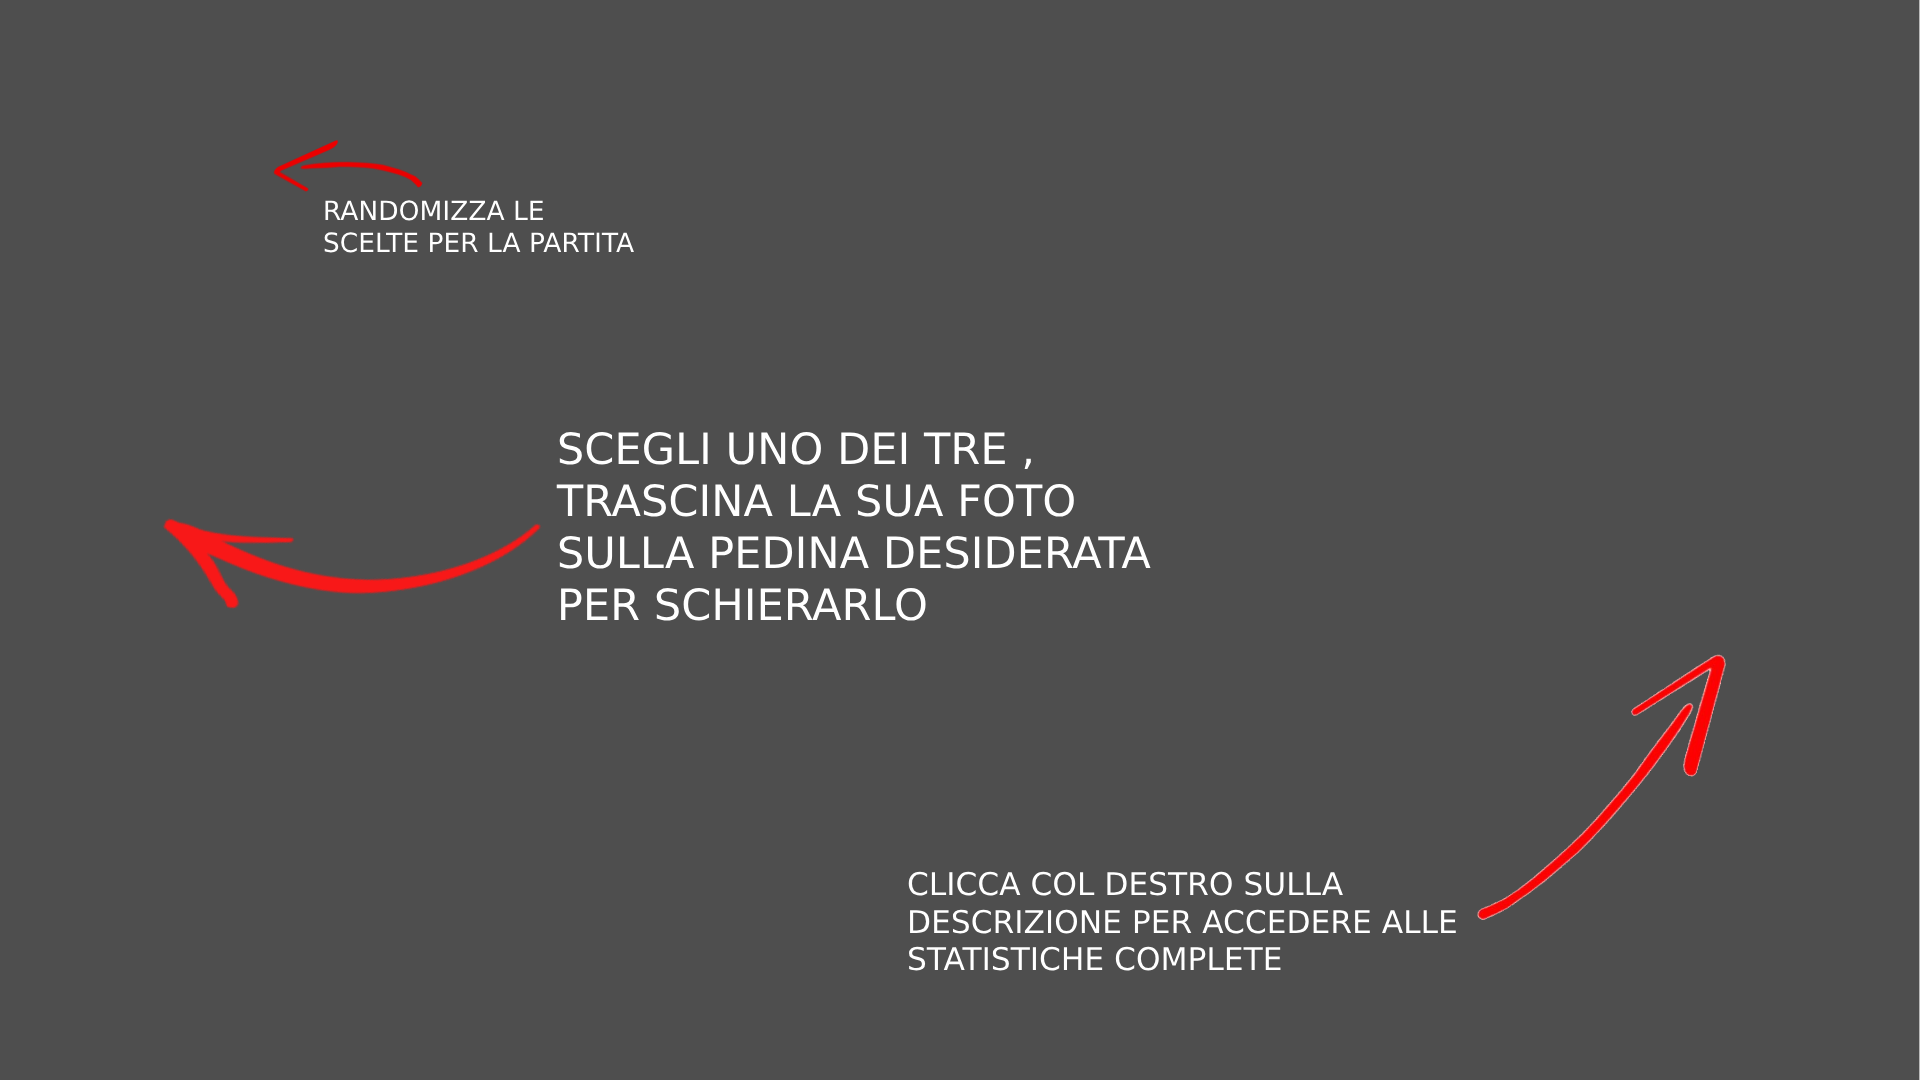
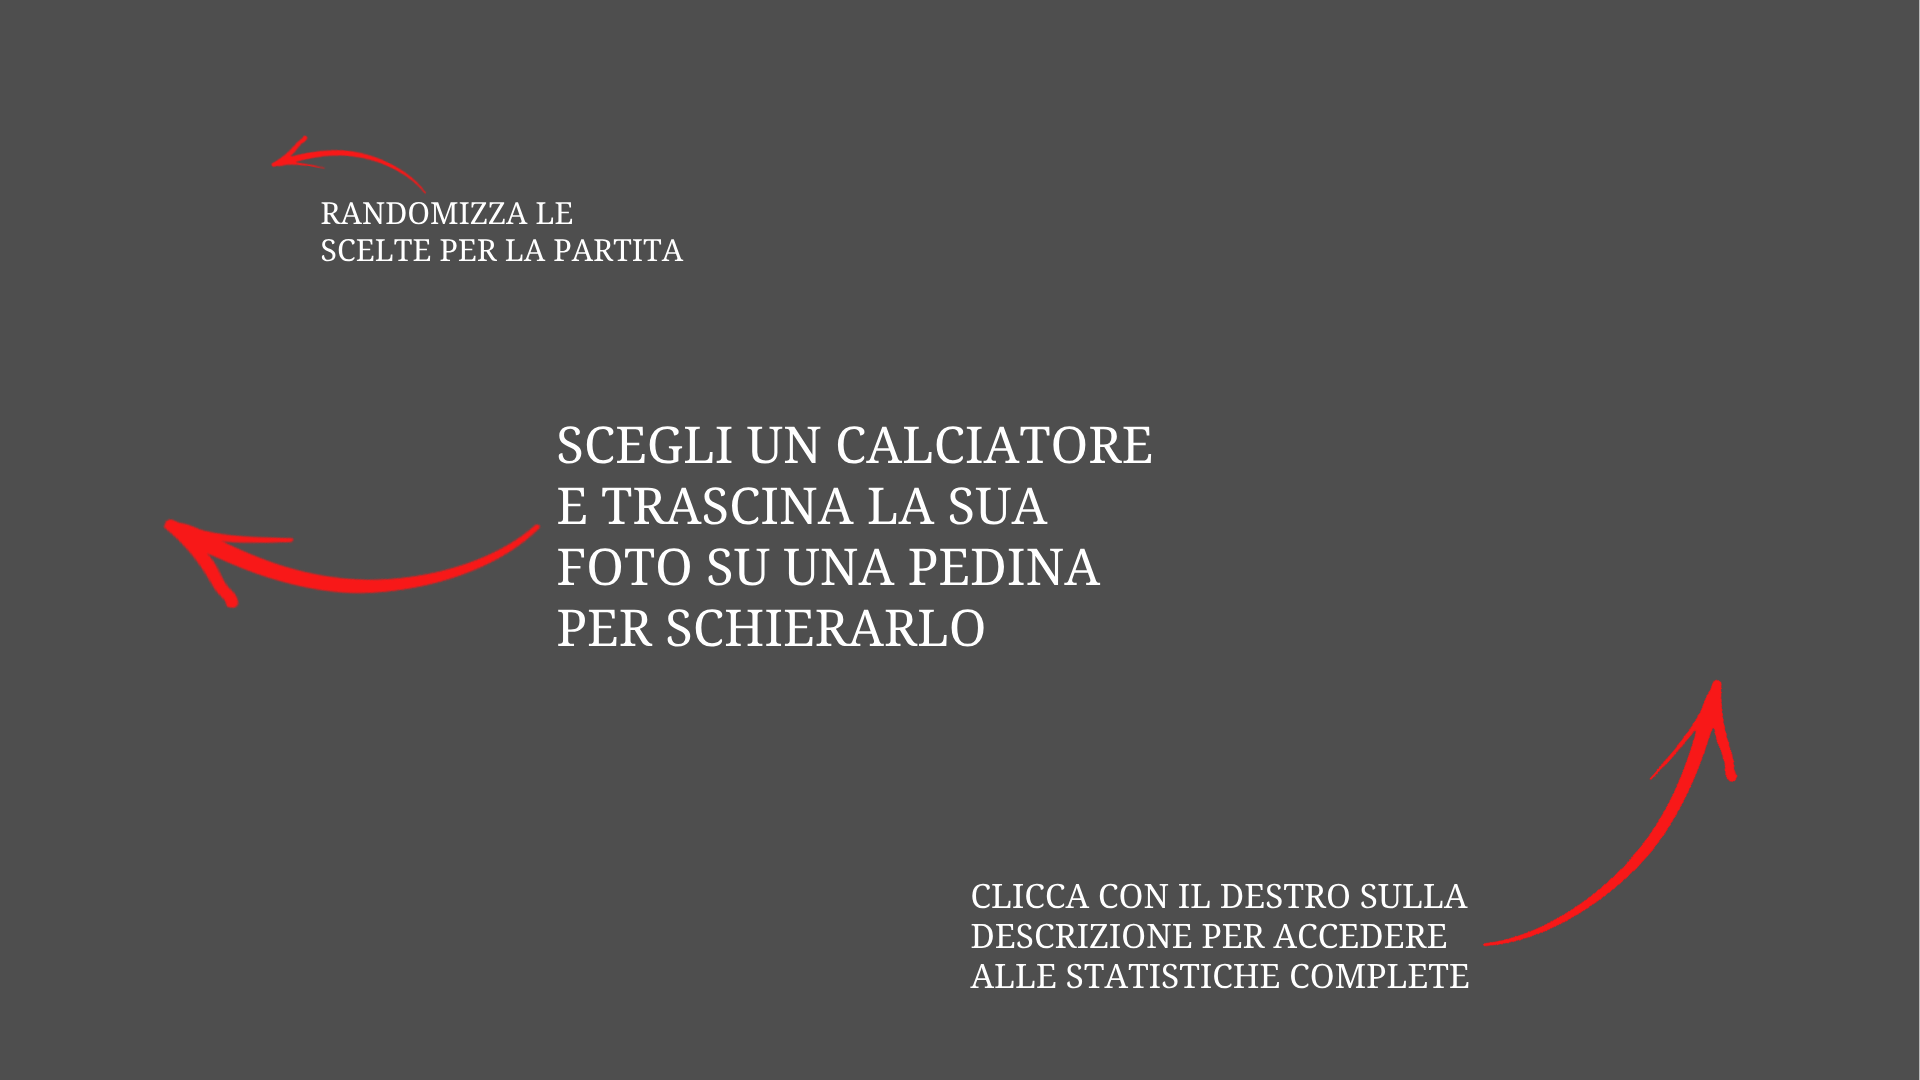
correzione font tutorial + aggiustamenti

Changed region(s): [[0.2812, 0.3972, 0.5938, 0.6111], [0.4688, 0.6111, 0.9062, 0.9167], [0.125, 0.1222, 0.3438, 0.2444]]

diff --git a/publicHTML/script_gamepage/Re.js b/publicHTML/script_gamepage/Re.js
@@ -1,7 +1,3 @@
-/*
-*  INIZIO LOGICA DEL RE IN SCACCO
-*/
-
 
 window.idCellReBianco = "53"; //id della cella su cui c'è il re bianco
 window.idCellReNero = "03"; //id della cella su cui c'è il re nero
@@ -10,8 +6,7 @@ window.cellaReBianco = document.getElementById(window.idCellReBianco);
 window.cellaReNero = document.getElementById(window.idCellReNero);
 
 
-//Funzione update variabili window posizione re (ovvero id cella dove è posiz)
-// + pulisce la vecchia cella del re se sottoscacco
+// Funzione che aggiorna le variabili di finestra del re e pulisce la cella del re precedente
 function update_re_position(img_pezzo, new_cell_re){
     //prima di cambiare posizione salvo la vecchia posiz del re
     let old_king_cell = (window.turno_bianco)? document.getElementById(window.idCellReBianco) : document.getElementById(window.idCellReNero);
@@ -32,12 +27,12 @@ function update_re_position(img_pezzo, new_cell_re){
     }  
 }
 
-//Funzione che resetta la cella del re passata come parametro
+// Funzione che resetta la cella del re passata come parametro
 function resetSottoscacco_cella(cella_re){
     cella_re.classList.remove('sottoscacco');
 }
 
-//Funzione che resetta la cella del re quando non è sottoscacco
+// Funzione che resetta la cella del re quando non è sottoscacco
 function resetSottoscacco (){
     //se il mio re non è sottoscacco decoloro la cella
     if (window.turno_bianco){
@@ -47,6 +42,7 @@ function resetSottoscacco (){
     }
 }
 
+// Funzione che resetta la cella del re avversario quando non è sottoscacco
 function resetSottoscaccoAvversaro (){
     //se il re avv non è sottoscacco decoloro la cella
     if (!window.turno_bianco){
@@ -56,7 +52,7 @@ function resetSottoscaccoAvversaro (){
     }
 }
 
-//Funzione che evidenzia il re se è sottoscacco
+// Funzione che evidenzia il re se è sottoscacco
 function highlight_re_if_sottoscacco(){ 
     //chech se metto re avversario sottoscacco quando muovo
     if(check_reAvversario_sottoscacco()){
@@ -88,7 +84,7 @@ function highlight_re_if_sottoscacco(){
     // NOTA:  PULIZIA DELLA CELLA SOTTOSCACCO IN UPDATE_RE_POSITION
 }
 
-//Funzione per controllare se l'ultima mossa fatta dall'avversario mette sotto scacco il proprio re
+// Funzione per controllare se l'ultima mossa fatta dall'avversario mette sotto scacco il proprio re
 function check_reAvversario_sottoscacco(){
     //ho la cella del re AVVERSARIO
     //controllo su tutti i MIEI pezzi 
@@ -125,7 +121,7 @@ function check_reAvversario_sottoscacco(){
     return sottoscacco;
 }
 
-//Funzione per controllare se il mio re è in scacco
+// Funzione per controllare se il mio re è in scacco
 function check_mio_re_sottoscacco(){
     //ho la cella del MIO re
     //controllo su tutti i MIEI pezzi 
@@ -159,7 +155,7 @@ function check_mio_re_sottoscacco(){
     return sottscacco;
 }
 
-//Funzione termina la partita se magio il re
+// Funzione che termina la partita se magio il re
 function isReMangiato(pedina_mangiata){
     // Verifica se la pedina mangiata esiste ed è un re
     if (pedina_mangiata && (pedina_mangiata.id === 'r' || pedina_mangiata.id === 'R')){
@@ -172,13 +168,12 @@ function isReMangiato(pedina_mangiata){
 function resetNumCelleRe(){
     window.idCellReBianco = "53"; //id della cella su cui c'è il re bianco
     window.idCellReNero = "03"; //id della cella su cui c'è il re nero
+    window.cellaReBianco = document.getElementById(window.idCellReBianco);
+    window.cellaReNero = document.getElementById(window.idCellReNero);
 }
 
 //Funzione per resettare il colore della cella del re a prescindere dal turno
-function resetColoreSottoscacco(){
+function resetAllSottoscacco(){
     window.cellaReBianco.classList.remove("sottoscacco");
     window.cellaReNero.classList.remove("sottoscacco");
 }
-/*
-*  FINE LOGICA DEL RE IN SCACCO
-*/

diff --git a/publicHTML/script_gamepage/Punteggio&Partite.js b/publicHTML/script_gamepage/Punteggio&Partite.js
@@ -1,3 +1,4 @@
+// Funzione per aggiornare i punti di un giocatore
 async function aggiornaPunti(userid, new_punti) {
   try {
     const response = await fetch('/update_punti', {
@@ -13,6 +14,7 @@ async function aggiornaPunti(userid, new_punti) {
   }
 }
 
+// Funzione per aggiornare le partite di un giocatore
 async function aggiornaPartite(userid) {
     try {
         const response = await fetch('/update_partite', {
@@ -35,7 +37,7 @@ async function aggiornaPartite(userid) {
     }
 }
 
-
+// Funzione per aggiornare le vittorie di un giocatore
 async function aggiornaVittorie(userid) {
     try {
         const response = await fetch('/update_vittorie', {
@@ -56,8 +58,11 @@ async function aggiornaVittorie(userid) {
     }
 }
 
+
+
 //------ FUNZIONE DA CHIAMARE A FINE PARTITA PER GESTIRE GLI AGGIORNAMENTI ------//
 
+// Funzione per aggiornare i dati dei player a fine partita
 function aggiornaStatistiche(){
     let numero_vincitore = window.turno_bianco ? 1 : 2;
     let vincitore = window.turno_bianco ? localStorage.getItem('game_username1') : localStorage.getItem('game_username2');

diff --git a/publicHTML/script_gamepage/Suoni.js b/publicHTML/script_gamepage/Suoni.js
@@ -3,7 +3,7 @@ window.audioCtx = new (window.AudioContext || window.webkitAudioContext)();
 window.soundBuffers = {}; // Oggetti audio pre-caricati
 window.soundsInitialized = false;
 
-// Precarica i suoni e decodifica i buffer
+// Funzione che precarica i suoni e decodifica i buffer
 function preloadSounds() {
     const soundsToLoad = {
         mossa: 'sounds/Move_on_Alabaster.wav',
@@ -26,7 +26,7 @@ function preloadSounds() {
     }
 }
 
-// Sblocca l’audio context dopo la prima interazione
+// Funzione che sblocca l’audio context dopo la prima interazione
 function preparaSounds() {
     if (window.soundsInitialized) return;
     if (window.audioCtx.state === 'suspended') {
@@ -56,6 +56,7 @@ function playSound(tipo, volume = 1.0) {
     source.start(0);
 }
 
+// Funzione per riprodurre un suono vuoto per aggiornare il browser
 function forzaAudio() {
     const buf = window.audioCtx.createBuffer(1, 1, 22050); // buffer silenzioso
     const src = window.audioCtx.createBufferSource();

diff --git a/publicHTML/script_gamepage/UtilityGrafica.js b/publicHTML/script_gamepage/UtilityGrafica.js
@@ -58,7 +58,7 @@ function resetSelezione(){
     window.selected_image = null;
 }
 
-//abilita movimento e hover pedine
+// Funzione che abilita movimento e hover pedine
 function abilitaPedine(){
     document.querySelectorAll('.pedina').forEach(pedina => {
         pedina.classList.remove('no-hover');
@@ -66,7 +66,7 @@ function abilitaPedine(){
     });
 }
 
-//disabilita movimento e hover pedine
+// Funzione che disabilita movimento e hover pedine
 function disabilitaPedine(){
     document.querySelectorAll('.pedina').forEach(pedina => {
         pedina.classList.add('no-hover');  // Aggiungo la classe no-hover per disabilitare l'hover
@@ -194,5 +194,3 @@ function handleTutorial() {
         makeHidden(tutorial);
     }
 }
-
-

diff --git a/publicHTML/script_gamepage/UtilityPartita.js b/publicHTML/script_gamepage/UtilityPartita.js
@@ -39,7 +39,7 @@ function handleButtonP2(){
         }
 }
 
-//Funzione per iniziare la preparazione del draft
+// Funzione per iniziare la preparazione del draft
 async function startDraft(){
 
     scrollToGameContainer();
@@ -124,9 +124,7 @@ async function restartDraft(){
     });
     
 
-    resetSottoscacco();
-    cambioTurno();
-    resetSottoscacco();
+    resetAllSottoscacco(); // Resetto lo stato di scacco per entrambi i re
     resetProntoButton();
     resetSuggerimenti();
     if(window.selected_cell) resetHighlighted();

diff --git a/publicHTML/script_gamepage/Cattura.js b/publicHTML/script_gamepage/Cattura.js
@@ -152,7 +152,7 @@ function setTunnelElement(dizionario_mangiata){
     appendLog(divFluttuante);
 }
 
-// Funzione
+// Funzione che imposta degli elementi di condizione volatili
 function setFlyingElement(dizionario_mangiata, image_attaccante){
     const img = document.createElement('img');
     img.src = dizionario_mangiata.src;

diff --git a/publicHTML/stile_gamepage/ResponsiveHelper.js b/publicHTML/stile_gamepage/ResponsiveHelper.js
@@ -65,6 +65,7 @@ function setSoccerPlayerNameFontSize() {
     });
 }
 
+// Funzione che mi sa non usiamo
 function setSoccerPlayerInfoFontSize(){
     const lista = document.querySelectorAll('lista-info');
     const textElements = document.getElementsByTagName('li');

diff --git a/publicHTML/script_gamepage/gestione_login/Login.js b/publicHTML/script_gamepage/gestione_login/Login.js
@@ -82,6 +82,7 @@ function isSessioneAperta(){
 
 //------ REGISTRAZIONE ------//
 
+// Funzione per effettuare la registrazione
 function register() {
   Swal.fire({
     title: 'Registrazione utente',
